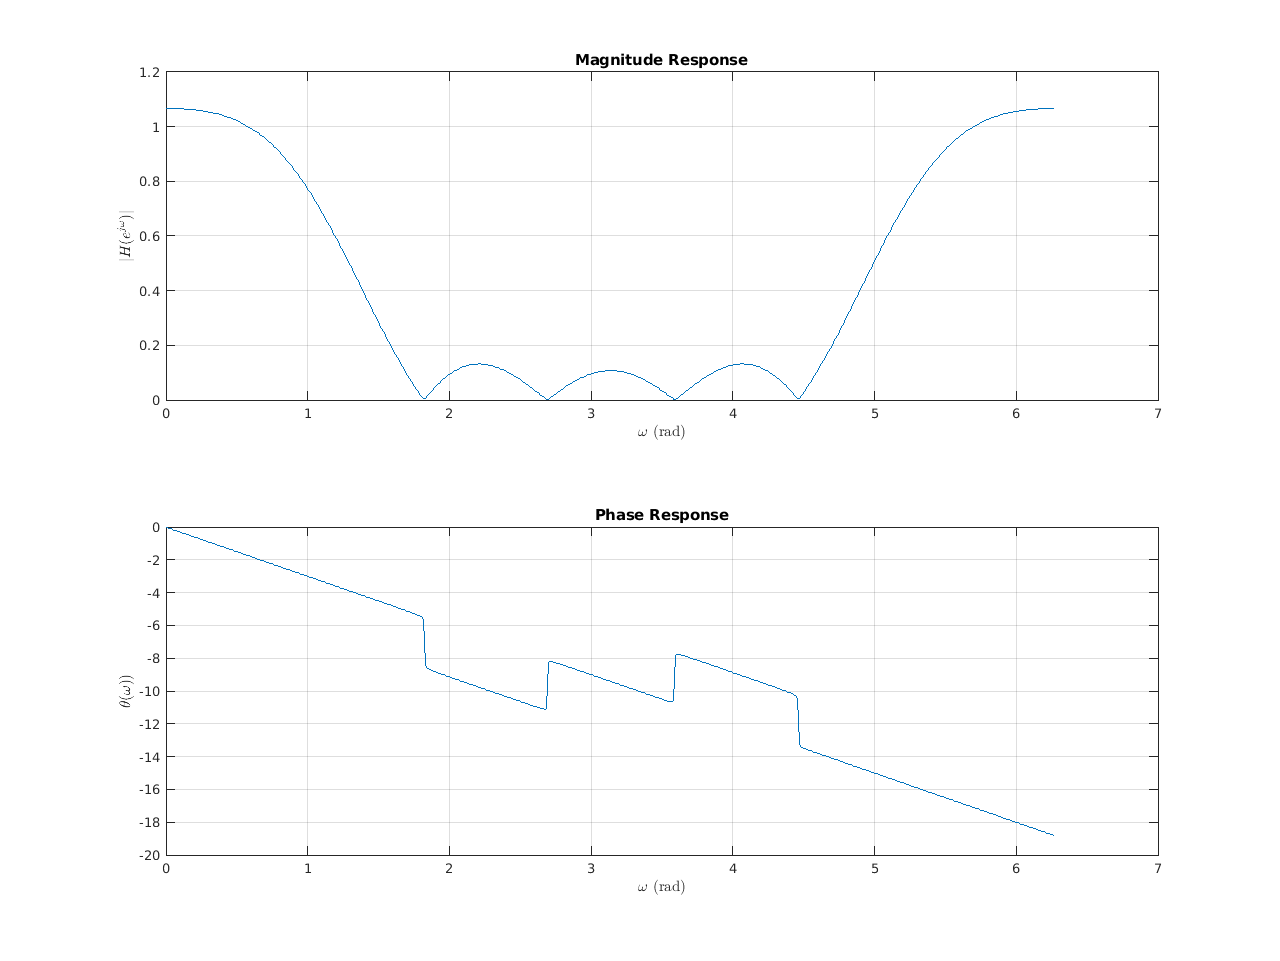
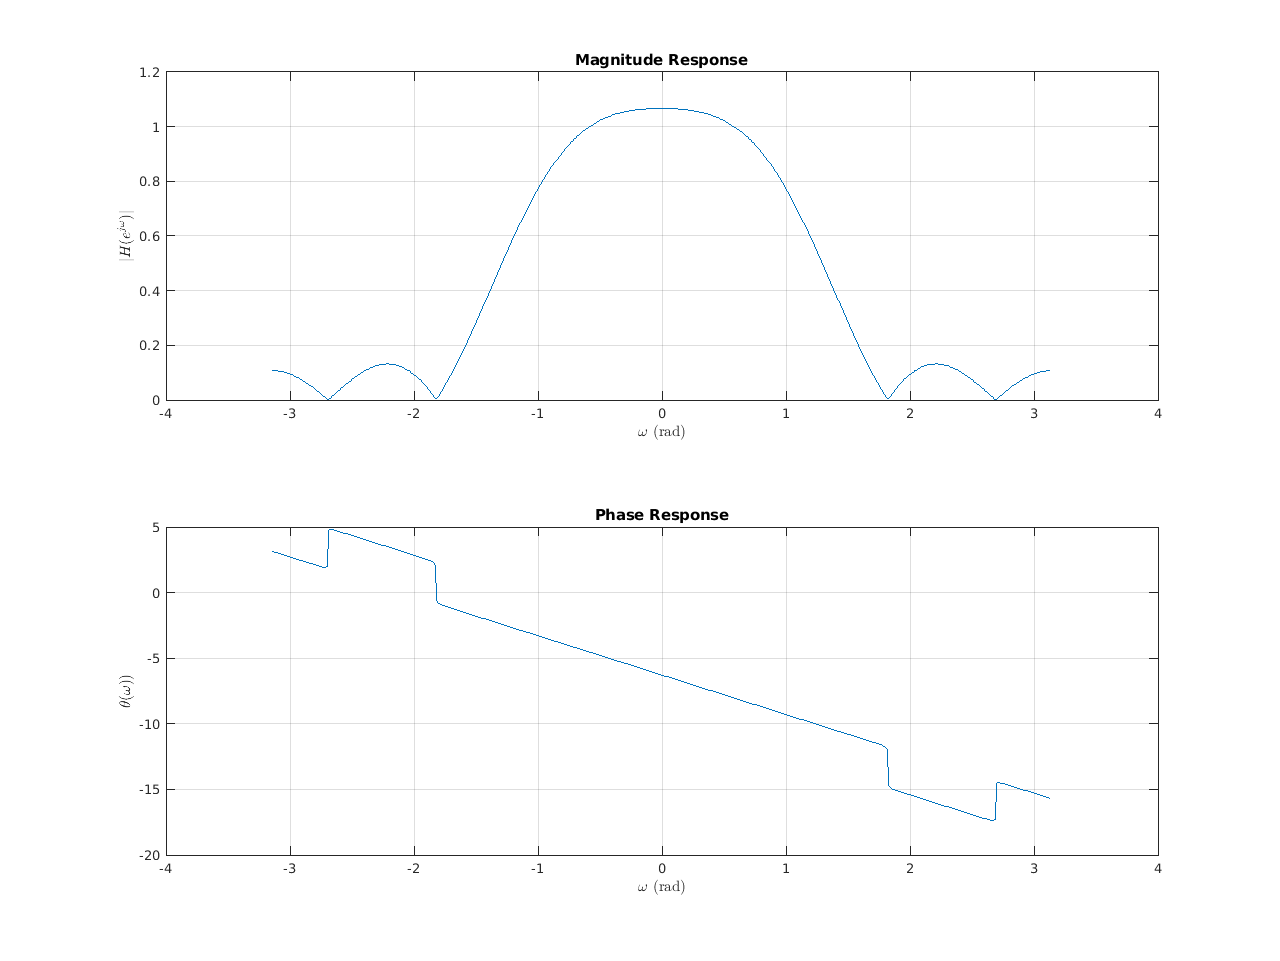
feat(dsys): proc-sin lista 03

Changed region(s): [[0.7812, 0.8429, 0.8125, 0.8741], [0.5938, 0.718, 0.625, 0.7492], [0.2188, 0.5619, 0.25, 0.5931]]

diff --git a/case/_exercise/dynamic-systems/22-02-list-03/q14/q14.m b/case/_exercise/dynamic-systems/22-02-list-03/q14/q14.m
@@ -16,8 +16,11 @@ figure;
 pzmap(H);
 
 %% Frequency response
+
 % Denormalized
 [h, w] = freqz(b, a, 'whole');
+h = fftshift(h);
+w = w - pi;
 
 figure;
 subplot(2, 1, 1);
